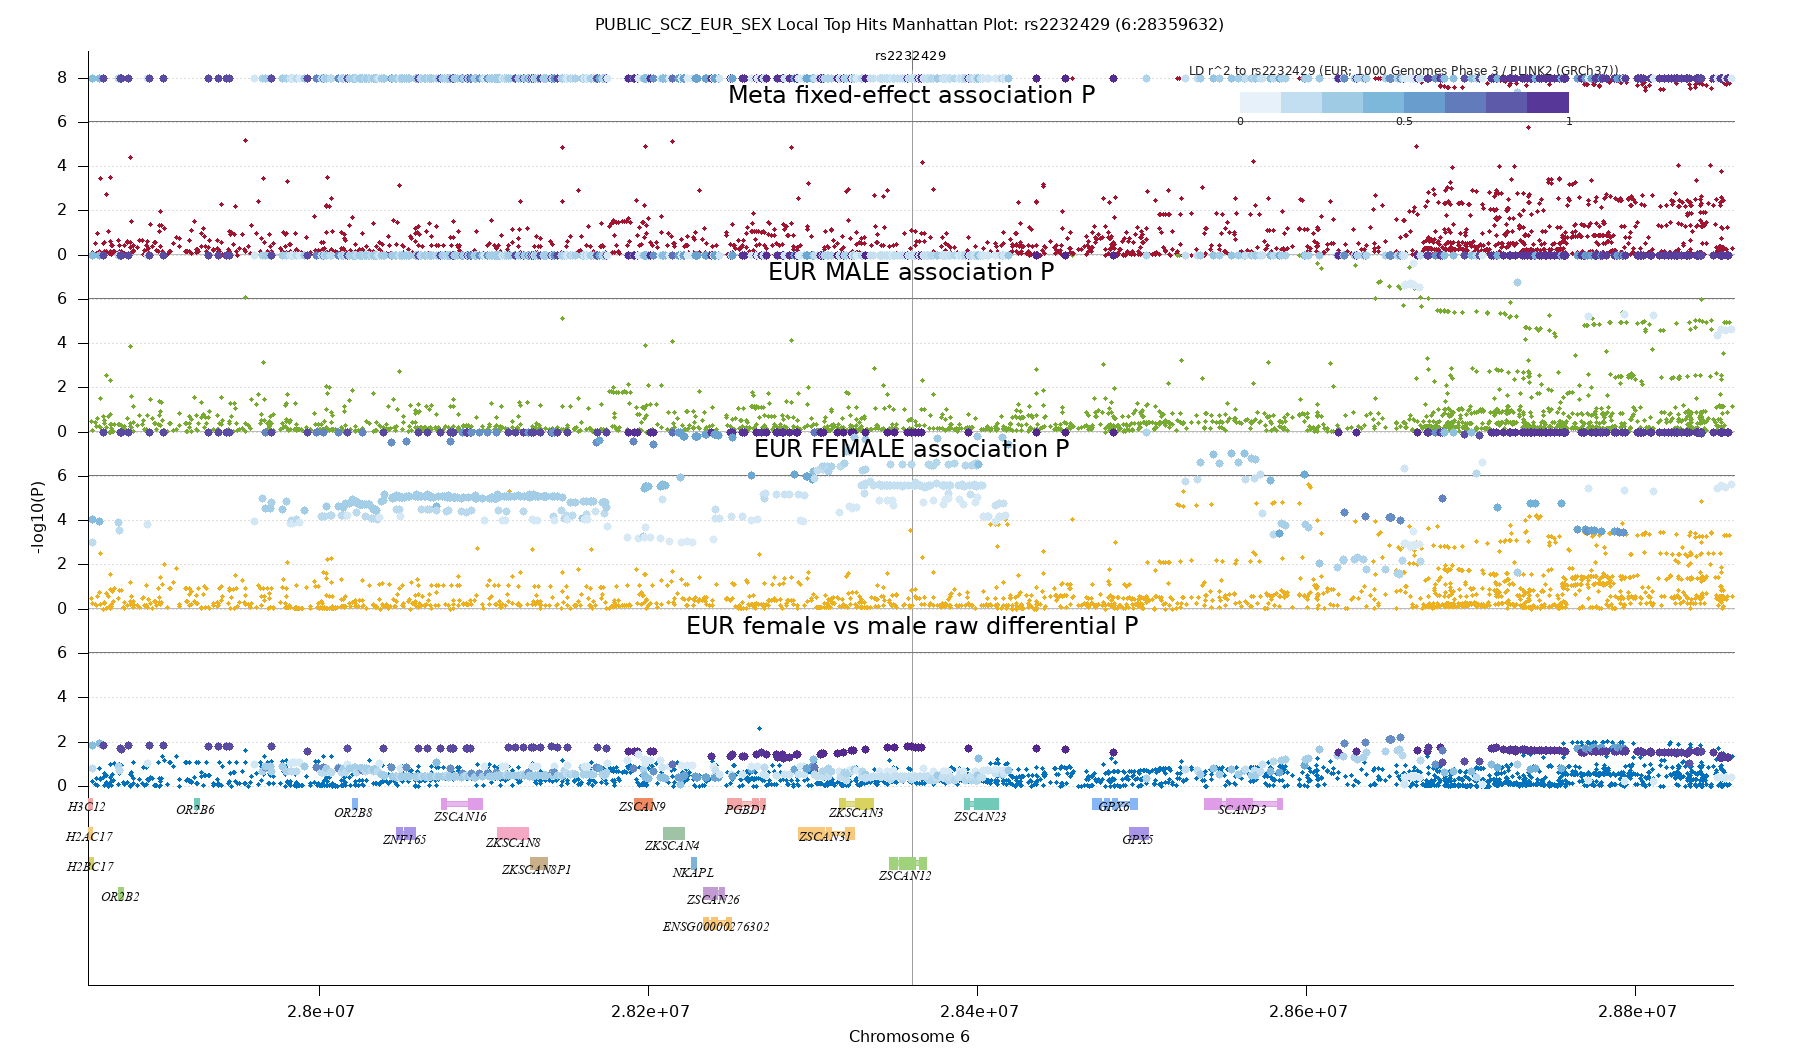
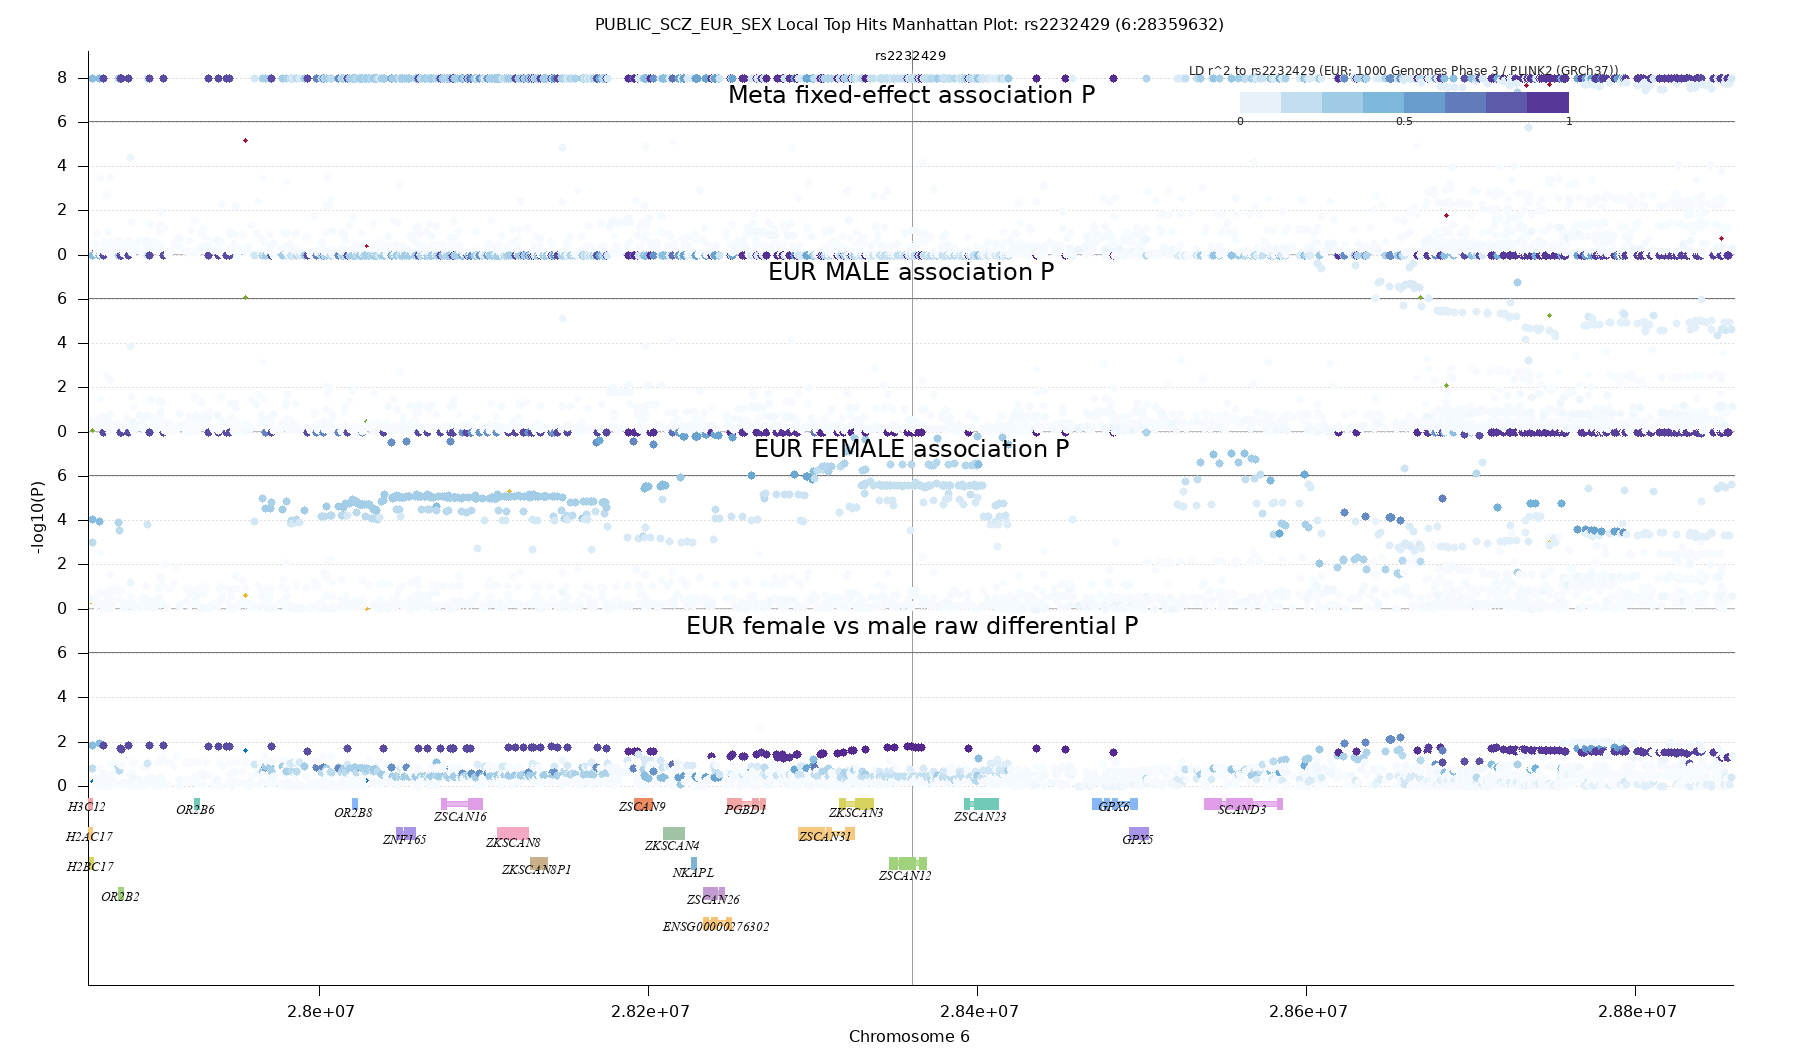
Use complete LD data for gnuplot heatmaps

diff --git a/MultiGWAS-Explorer/README.md b/MultiGWAS-Explorer/README.md
@@ -2479,6 +2479,11 @@ overlay. Supported symbols are `star`, `plus`, `cross`, `circle`, `square`,
 configured phased 1000 Genomes reference is available, both plotters calculate
 local LD directly with PLINK2 and persist a compact normalized cache. HaploReg4
 is queried only as a backup when the local genotype reference is unavailable.
+In gnuplot `heatmap` and `both` modes, PLINK2 is requested with minimum r² 0,
+so every estimable pair in the configured window is retained for coloring.
+`--ld-r2-threshold` controls only the optional high-LD marker symbols; it does
+not remove lower-r² values from the color map. The normalized sidecar and plot
+manifest record the complete available row count and a provenance signature.
 
 The gnuplot `local_gtf` plot defaults to a signed-LD heatmap. For GRCh38/hg38
 GWAS it downloads the matching chromosome from the official
@@ -2915,9 +2920,32 @@ fails before SAS submission:
 
 ## Local PLINK2 LD Reference
 
-The HaploReg resolver is an optional high-LD proxy fallback. It returns only
-variants meeting the configured display threshold and cannot provide complete
-window-wide LD. Use the local PLINK2 reference for reproducible GTF plots.
+The HaploReg resolver is an optional fallback when a local genotype panel is
+unavailable. For a heatmap, the resolver requests threshold 0 and uses every
+numeric r² value returned by HaploReg4. A persistent response is accepted as
+complete only when its `cache_min_r2` metadata covers that request; otherwise
+the query is refreshed. HaploReg4 may still omit variants that its service does
+not report, so the build-matched local PLINK2 reference is the reproducible
+source for complete estimable window-wide LD.
+
+### Regression-prevention rule: colors and markers are separate datasets
+
+The heatmap color map must retain all estimable r² values from 0 through 1.
+The marker threshold is applied only when deciding which points receive the
+star, diamond, or other marker. Do not pass the marker threshold to PLINK2 as
+`--ld-window-r2` when producing a heatmap, and do not treat every row in the
+R² sidecar as a high-LD marker. The gnuplot wrapper now creates a threshold-0
+cache for heatmap modes, writes every non-reference pair to the sidecar, and
+stores thresholded marker status in a separate `IS_MARKER` field. This also
+avoids operating-system command-length limits at permissive thresholds.
+
+The focused Perl regression test includes one proxy below the marker threshold
+and one above it. It verifies that both receive their R² color while only the
+second receives a marker:
+
+```bash
+perl DiffGWASDeps/test_ld_heatmap_rendering.pl
+```
 
 ### Regression-prevention rule: one LD reference per plotted locus
 
@@ -2964,7 +2992,8 @@ perl DiffGWASDeps/test_ld_heatmap_contract.pl
 For complete window-wide LD, use the repository helper
 `DiffGWASDeps/resolve_plink2_local_ld.pl` with a local PLINK2 1000 Genomes
 fileset. It runs `--r2-phased` by default (or `--unphased` for dosage
-correlation), applies the requested chromosome/window and r² threshold, and
+correlation), applies the requested chromosome/window, and with `--min-r2 0`
+retains every estimable pair for a heatmap. It
 emits the same normalized `query_snp/proxy_snp/proxy_r2` format consumed by
 the plotting pipeline:
 

diff --git a/MultiGWAS-Explorer/install/PUBLIC_GWAS_RESULTS.md b/MultiGWAS-Explorer/install/PUBLIC_GWAS_RESULTS.md
@@ -1,5 +1,29 @@
 # Public sex-stratified GWAS validation (September 2026)
 
+## Follow-up correction: complete local-LD color data
+
+The original gnuplot local plots used the high-LD marker threshold as PLINK2's
+minimum reported r². That incorrectly removed lower-r² variants from the color
+map. The corrected runner requests phased EUR 1000 Genomes Phase 3 LD at
+minimum r² 0 for heatmap modes and applies 0.1 only to marker symbols. The
+R² sidecar carries a separate `IS_MARKER` field, avoiding both semantic
+conflation and command-length limits.
+
+The three real loci were regenerated and visually inspected on 2026-09-28.
+Every non-reference PLINK2 cache row was transferred to both the local
+Manhattan and local GTF sidecars:
+
+| Reference SNP | Complete R² source rows | GWAS variants matched in plot | Matched variants at marker threshold |
+| --- | ---: | ---: | ---: |
+| `rs2232429` | 18,917 | 2,405 | 688 |
+| `rs185665940` | 15,367 | 1,870 | 8 |
+| `rs62604261` | 7,519 | 1,166 | 21 |
+
+Each locus has four association tracks, so the manifests record 9,620, 7,480,
+and 4,664 colored point records respectively. The focused Perl regression also
+verifies that a below-threshold proxy remains colored without receiving a
+high-LD marker.
+
 ## Follow-up correction: forest text and output discoverability
 
 User inspection found that the original gnuplot forest PNGs decoded correctly
@@ -38,7 +62,7 @@ public Figshare endpoint.
 | Real integration subset numerical checks | PASS: all 69,926 comparisons, chromosomes 1–22 and X |
 | Subset gnuplot | PASS: genome-wide Manhattan, local Manhattan, GTF tracks, forest plots |
 | Subset SAS ODA | PASS: same four plot families; PNG decoding verified |
-| Real LD service and overlay | PASS: HaploReg lookup; 147 LD points plotted |
+| Real complete local LD coloring | PASS: phased EUR 1000 Genomes Phase 3 threshold-0 caches; all cache proxies transferred to local Manhattan and GTF sidecars |
 | Windows and Ubuntu path/index regressions | PASS: spaces in paths, autosomal/X tabix queries, nested precomputed configuration |
 | Full SAS ODA | PASS: all four plot families; 11 decoded PNGs |
 
@@ -78,6 +102,9 @@ The full numerical scan took 401 seconds; gnuplot genome-wide rendering took
 - Select the repository's SAS helper instead of an unrelated version on PATH.
 - Replace macOS-incompatible `zcat` calls in standardization with list-form
   `gzip -dc` calls. The new CI regression caught this platform-specific failure.
+- Separate complete R² color data from thresholded high-LD markers. Heatmap
+  caches now use PLINK2 minimum r² 0, and sidecars store marker status in a
+  distinct column.
 
 The first full standardized-index attempt failed before the path correction;
 the existing standardized table was subsequently indexed successfully without

diff --git a/MultiGWAS-Explorer/install/VALIDATION.md b/MultiGWAS-Explorer/install/VALIDATION.md
@@ -157,20 +157,22 @@ preprocessing subprocess disables plotting-only LD work, avoiding a redundant
 whole-reference calculation before per-locus LD begins.
 
 The official phased 1000 Genomes Phase 3 GRCh37 reference was prepared locally
-with PLINK2 2.0 a.6.39. EUR selection retained 503 samples. Direct phased LD
-at `r2 >= 0.1` succeeded for all three loci. The regenerated manifests report:
+with PLINK2. EUR selection retained 503 samples. A 2026-09-28 correction
+regenerated heatmap caches at minimum r² 0; r² 0.1 now controls marker symbols
+only. The local Manhattan and local GTF manifests agree and report:
 
-| SNP | Signed mode | Plotted reference/proxy variants |
-| --- | --- | ---: |
-| rs2232429 | `r2 x sign(Z)` | 689 |
-| rs185665940 | `r2 x sign(Z)` | 9 |
-| rs62604261 | `r2 x sign(Z)` | 22 |
+| SNP | Complete source proxies | Plot-matched variants | Plot-matched marker variants |
+| --- | ---: | ---: | ---: |
+| rs2232429 | 18,917 | 2,405 | 688 |
+| rs185665940 | 15,367 | 1,870 | 8 |
+| rs62604261 | 7,519 | 1,166 | 21 |
 
-All three PNGs were visually inspected and show the signed -1 to 1 colorbar.
-Manifest provenance now records both the compact plotting TSV and its direct
-`.plink2_1kg_phase3.tsv` source. The public image-validation phase rejects
-missing heatmap mode, unsigned coloring, a reference-only result, or a source
-other than the PLINK2 Phase 3 cache.
+All six local PNGs were visually inspected: three local Manhattan plots show
+the full 0-to-1 R² scale, and three local GTF plots show the signed -1-to-1
+scale. Manifest provenance records the plotting TSV, threshold-0 PLINK2 source,
+complete sidecar row count, marker threshold, and sidecar signature. The public
+validation rejects missing rows, a thresholded source cache, incorrect signed
+mode, or a source other than the PLINK2 Phase 3 cache.
 
 PLINK variant IDs containing semicolon-separated aliases are expanded by the
 normalizer, while the missing-ID sentinel `.` is discarded. This allows GWAS

diff --git a/MultiGWAS-Explorer/examples/public-scz-sex/README.md b/MultiGWAS-Explorer/examples/public-scz-sex/README.md
@@ -19,6 +19,9 @@ SHA-256 checksum of each copied image.
   standard errors, Z scores, and two-sided P values were recalculated.
 - All four plot families decoded successfully for both backends.
 - Inquiry targets were `rs2232429`, `rs185665940`, and `rs62604261`.
+- Gnuplot local Manhattan and GTF heatmaps use phased EUR 1000 Genomes Phase 3
+  threshold-0 LD caches. Their complete sidecars contain 18,917, 15,367, and
+  7,519 non-reference R² values; the 0.1 cutoff controls marker symbols only.
 
 The machine-readable row counts and targets are in `numeric_validation.json`
 and `targets.txt`. See the

diff --git a/MultiGWAS-Explorer/install/PUBLIC_GWAS_TEST.md b/MultiGWAS-Explorer/install/PUBLIC_GWAS_TEST.md
@@ -60,6 +60,12 @@ perl install/run_public_sex_gwas.pl \
   --backend gnuplot
 ```
 
+The gnuplot validation requires threshold-0 PLINK2 caches for both the local
+Manhattan and local GTF figures. It checks that every non-reference cache row
+is copied into the R² sidecar, that the marker threshold remains 0.1, and that
+the sidecar has a stable provenance signature. Thus a figure cannot pass by
+coloring only the high-LD marker subset.
+
 To test both plotting backends with an already configured SAS ODA account:
 
 ```bash
